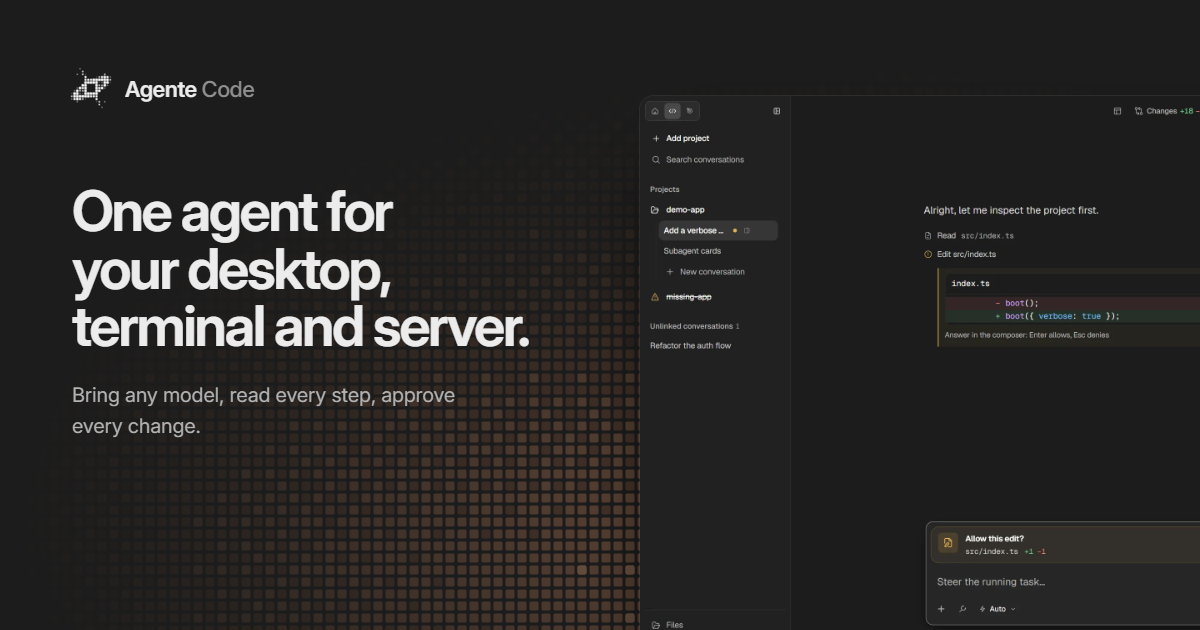
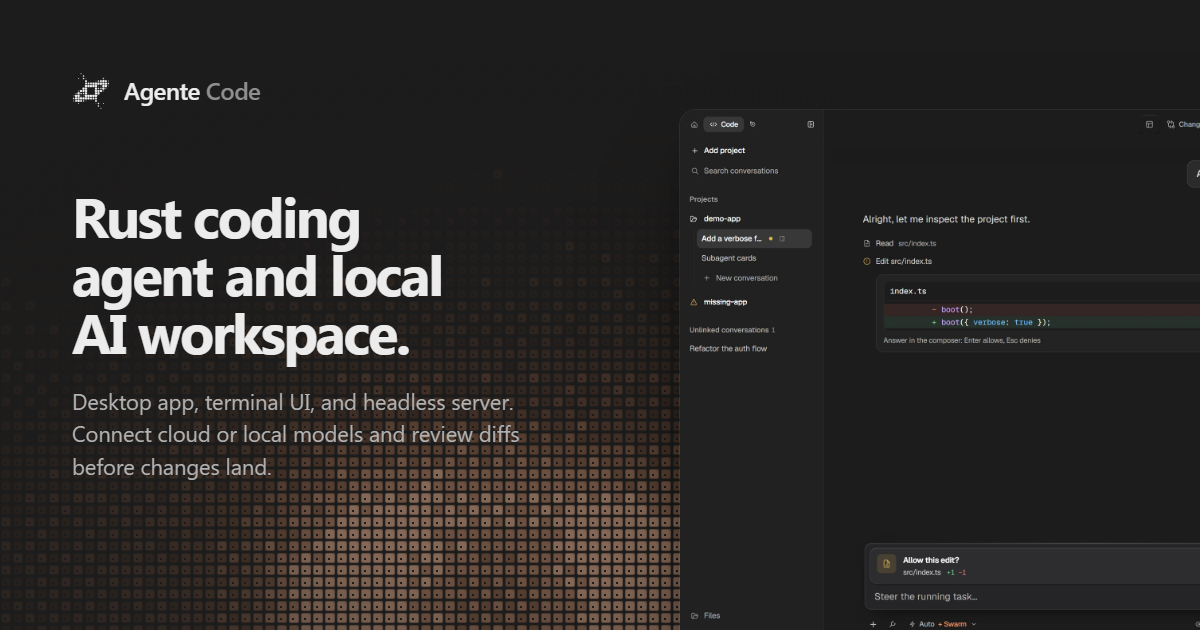
Publish simplified copy and refreshed v0.3.0 screenshots to GitHub Pages

diff --git a/index.html b/index.html
@@ -3,12 +3,12 @@
 <head>
   <meta charset="utf-8" />
   <meta name="viewport" content="width=device-width, initial-scale=1" />
-  <title>Agente Code — one agent core for your desktop, terminal and server</title>
-  <meta name="description" content="Agente Code is an open-source Rust coding agent: a calm desktop app, a keyboard-first terminal, and a server you host. Bring any model, read every step, approve every change." />
+  <title>Agente Code — Rust coding agent for desktop, terminal, and server</title>
+  <meta name="description" content="Agente Code is an open-source Rust coding agent and local AI workspace that runs as a desktop app, a terminal UI, and a headless server." />
   <meta name="color-scheme" content="dark light" />
   <meta name="theme-color" content="#1c1c1c" />
   <meta property="og:title" content="Agente Code" />
-  <meta property="og:description" content="One agent core for your desktop, your terminal and your server. Bring any model, read every step, approve every change." />
+  <meta property="og:description" content="Rust coding agent and local AI workspace for desktop, terminal, and server." />
   <meta property="og:image" content="assets/og.png" />
   <meta name="twitter:card" content="summary_large_image" />
   <link rel="icon" href="assets/favicon.ico" />
@@ -64,13 +64,13 @@
   </header>
 
   <main id="main">
-    <!-- 1 · Hero: the tile field the terminal greets you with, behind one sentence and the product. -->
+    <!-- 1 · Hero -->
     <section class="hero" id="top">
       <canvas class="hero-tiles" id="hero-tiles" aria-hidden="true"></canvas>
       <div class="wrap hero-grid">
         <div class="hero-copy">
-          <h1>One agent for your desktop, terminal and server.</h1>
-          <p class="lede">Agente Code plans, edits and builds with you. Bring any model, read every step as it happens, and approve every change before it lands.</p>
+          <h1>Rust coding agent and local AI workspace.</h1>
+          <p class="lede">Agente Code runs as a desktop application, a terminal UI, and a headless server. Connect cloud or local models, inspect tool calls in real time, and review diffs before changes are written.</p>
           <div class="actions">
             <a class="btn btn-solid btn-lg" href="#install"><svg aria-hidden="true"><use href="#i-download" /></svg>Download Desktop</a>
             <a class="btn btn-outline btn-lg" href="#install" data-install="cli"><svg aria-hidden="true"><use href="#i-terminal" /></svg>Install the CLI</a>
@@ -86,9 +86,9 @@
     <section class="section" id="surfaces">
       <div class="wrap">
         <header class="section-head" data-reveal>
-          <p class="kicker">Three surfaces, one core</p>
-          <h2>Work where you already are.</h2>
-          <p>The same Rust agent runs the desktop app, the terminal and the server, so a session, a model or a tool behaves the same in all three.</p>
+          <p class="kicker">Surfaces</p>
+          <h2>Desktop, terminal, and server</h2>
+          <p>All three interfaces use the same Rust agent core, session storage, model settings, and tool execution loop.</p>
         </header>
 
         <div class="seg-wrap" data-reveal>
@@ -105,16 +105,16 @@
             <figure class="window"><img src="assets/desktop-home.webp" width="2160" height="1350" alt="Agente Code Desktop in Home: a board pack request answered with a report, a review deck and an operating model as file cards" loading="lazy" /></figure>
             <div class="panel-copy">
               <h3>Desktop</h3>
-              <p>A calm workspace for the whole task. Ask in Home and get documents, decks and spreadsheets back as files; switch to Code for a project, or Design for pages you can point at.</p>
-              <ul class="ticks"><li>Home, Code and Design spaces</li><li>Artifacts you open, edit and download</li><li>Local models with llama.cpp, CPU or GPU</li><li>Voice in and out · seven languages</li></ul>
+              <p>Use Home for chat, web search, and generating DOCX, PPTX, and XLSX files. Switch to Code for repository work, or Design for visual HTML prototyping.</p>
+              <ul class="ticks"><li>Home, Code, and Design workspaces</li><li>Preview, edit, and download generated file artifacts</li><li>Local GGUF inference with llama.cpp (CPU or GPU)</li><li>Speech-to-text and text-to-speech · seven UI languages</li></ul>
             </div>
           </article>
           <article class="panel" role="tabpanel" id="p-terminal" aria-labelledby="t-terminal">
             <figure class="window window-dark"><img src="assets/terminal-welcome.webp" width="1371" height="896" alt="Agente Code’s terminal welcome card with the app mark, the session menu, and the tile field behind it" loading="lazy" /></figure>
             <div class="panel-copy">
               <h3>Terminal</h3>
-              <p>A keyboard-first agent that stays in your repository. It plans first, asks before it acts, and keeps several sessions running in tabs.</p>
-              <ul class="ticks"><li>Plan → build → auto, one key</li><li>Parallel subagents in their own worktrees</li><li>Revert or fork from any message</li><li>ACP for editors</li></ul>
+              <p>Terminal UI for repository tasks with read-only planning, tool confirmation prompts, inline diffs, and multiple session tabs.</p>
+              <ul class="ticks"><li>Cycle Plan, Build, and Auto modes with Shift+Tab</li><li>Parallel subagents in isolated git worktrees</li><li>Revert or fork sessions from any user message</li><li>Agent Client Protocol (ACP) stdio support for editors</li></ul>
             </div>
           </article>
           <article class="panel" role="tabpanel" id="p-server" aria-labelledby="t-server">
@@ -134,28 +134,28 @@
             </figure>
             <div class="panel-copy">
               <h3>Server <span class="tag">Preview</span></h3>
-              <p>The runtime behind Desktop, headless on a machine you control. Start a task, close the laptop, attach later from anywhere.</p>
-              <ul class="ticks"><li>Persistent sessions</li><li>Shared agent tools</li><li>Token-authenticated</li><li>One Docker image</li></ul>
+              <p>Run the agent runtime as a background daemon on a local machine or server, and attach to active sessions from a terminal or Desktop client.</p>
+              <ul class="ticks"><li>Persistent background sessions</li><li>Shared agent loop and tool execution</li><li>Token-authenticated HTTP and WebSocket API</li><li>Prebuilt Docker container image</li></ul>
             </div>
           </article>
         </div>
       </div>
     </section>
 
-    <!-- 3 · Features: each card draws the thing it describes, in the app's own grammar. -->
+    <!-- 3 · Features -->
     <section class="section section-alt" id="features">
       <div class="wrap">
         <header class="section-head" data-reveal>
-          <p class="kicker">Built for trust</p>
-          <h2>You can see what it does, and say no.</h2>
-          <p>Every surface follows one rule: each fact about a run has one place, and nothing lands on your disk without a yes.</p>
+          <p class="kicker">Features</p>
+          <h2>Tool approvals, diffs, and session controls</h2>
+          <p>Inspect tool execution as it runs, review file modifications before confirming, and manage context usage and session history.</p>
         </header>
 
         <div class="bento">
           <article class="card card-wide" data-reveal>
             <div class="card-copy">
-              <h3>Asks before it acts</h3>
-              <p>Edits and commands wait for you right where your hands are. Enter allows, Esc denies, and destructive calls turn red.</p>
+              <h3>Tool and edit confirmations</h3>
+              <p>File edits and shell commands pause for confirmation above the prompt. Press Enter to allow or Esc to deny; destructive commands are highlighted in red.</p>
             </div>
             <div class="mock mock-ask" aria-hidden="true">
               <div class="ask">
@@ -170,8 +170,8 @@
 
           <article class="card" data-reveal style="--d:60ms">
             <div class="card-copy">
-              <h3>Live work you can read</h3>
-              <p>Every call is a row you can open. The one running now is the only bright line.</p>
+              <h3>Streaming tool log</h3>
+              <p>Each tool call renders as an expandable row showing target paths, elapsed duration, and live process output.</p>
             </div>
             <div class="mock mock-rows" aria-hidden="true">
               <div class="row"><span class="ic">▤</span><span class="verb">Read</span><code>src/index.ts</code><span class="time">&lt;1s</span></div>
@@ -183,8 +183,8 @@
 
           <article class="card" data-reveal style="--d:120ms">
             <div class="card-copy">
-              <h3>Files, not walls of text</h3>
-              <p>Reports, decks and spreadsheets arrive as files you open, edit and download.</p>
+              <h3>Document artifacts</h3>
+              <p>Generate DOCX documents, PPTX presentations, XLSX spreadsheets, and HTML pages that can be previewed, edited, and downloaded.</p>
             </div>
             <div class="mock mock-files" aria-hidden="true">
               <div class="file"><span class="sheet doc">▤</span><span><b>Q3 Board Report</b><small>Document · DOCX</small></span></div>
@@ -195,8 +195,8 @@
 
           <article class="card" data-reveal>
             <div class="card-copy">
-              <h3>Subagents in parallel</h3>
-              <p>Hand off exploration and fixes to children that run side by side, each in its own worktree, each with a Stop.</p>
+              <h3>Parallel subagents</h3>
+              <p>Spawn task subagents for codebase search, planning, or edits. Writing subagents run in separate git worktrees and can be stopped individually.</p>
             </div>
             <div class="mock mock-agents" aria-hidden="true">
               <div class="agent"><span class="st run"></span><b>Explore</b><span>Find every retry call site</span><em>12.0s</em></div>
@@ -207,8 +207,8 @@
 
           <article class="card" data-reveal style="--d:60ms">
             <div class="card-copy">
-              <h3>Undo is one message away</h3>
-              <p>Revert the edits made after any prompt, or fork a new session from it. Redo works too.</p>
+              <h3>Revert and fork</h3>
+              <p>Revert file changes made after any prompt, redo reverted edits, or fork a conversation into a new session from an earlier message.</p>
             </div>
             <div class="mock mock-msg" aria-hidden="true">
               <div class="bubble">Add a retry guard to the provider client</div>
@@ -218,8 +218,8 @@
 
           <article class="card card-full" data-reveal>
             <div class="card-copy">
-              <h3>Honest spend</h3>
-              <p>Cost per call, cache rate and context left, with estimates labelled as estimates.</p>
+              <h3>Context and cost tracking</h3>
+              <p>Status bar shows active mode, request cost, prompt cache hit rate, and token usage against the context window budget.</p>
             </div>
             <div class="mock mock-spend" aria-hidden="true">
               <div class="status"><span class="mode">build</span><span>$0.042 · 82% cached</span><span class="ctx"><i style="width:38%"></i></span><span>48k / 128k</span></div>
@@ -229,25 +229,25 @@
       </div>
     </section>
 
-    <!-- 4 · Models + principles -->
+    <!-- 4 · Models + configuration -->
     <section class="section" id="models">
       <div class="wrap">
         <header class="section-head" data-reveal>
-          <p class="kicker">Your models, your machine</p>
-          <h2>Bring a key, or bring nothing at all.</h2>
+          <p class="kicker">Models and storage</p>
+          <h2>Cloud APIs and local inference</h2>
         </header>
         <div class="principles">
           <div data-reveal>
-            <h3>Any model</h3>
-            <p>Use your own keys with the providers below, or run GGUF models locally with llama.cpp, Ollama or LM Studio. Thinking levels follow what each model supports.</p>
+            <h3>Model providers</h3>
+            <p>Connect cloud providers with your own API keys, or run GGUF models locally via llama.cpp, Ollama, or LM Studio. Reasoning effort levels adapt to each model's capabilities.</p>
           </div>
           <div data-reveal style="--d:80ms">
-            <h3>Your control</h3>
-            <p>Start with a read-only plan, approve each tool as you build, or go auto for a turn. Review every diff before and after it lands.</p>
+            <h3>Execution modes</h3>
+            <p>Switch between read-only Plan mode, per-action approvals in Build mode, or Auto mode for a turn. Inspect diffs in the transcript and Changes panel.</p>
           </div>
           <div data-reveal style="--d:160ms">
-            <h3>Your disk</h3>
-            <p>Sessions, attachments and project files stay on your machine. Keep them running on your own server with <code>agente serve</code>.</p>
+            <h3>Local storage</h3>
+            <p>Session transcripts, attachments, and configuration files are stored on disk under <code>~/.agente</code>, or on your own host when running <code>agente serve</code>.</p>
           </div>
         </div>
         <div class="providers" data-reveal>
@@ -268,7 +268,7 @@
       <div class="wrap narrow">
         <header class="section-head center" data-reveal>
           <p class="kicker">Install</p>
-          <h2>Running in a minute.</h2>
+          <h2>Downloads and packages</h2>
         </header>
         <div class="seg-wrap" data-reveal>
           <div class="segmented" role="tablist" aria-label="Install" id="install-tabs">
@@ -282,10 +282,10 @@
           <div class="panel is-active" role="tabpanel" id="gp-desktop" aria-labelledby="g-desktop">
             <div class="dl-list">
               <a class="dl-row" href="https://github.com/fabricio3g/AgenteCode/releases/latest/download/AgenteDesktop-windows-x64.exe"><span class="dl-name">Windows</span><span class="dl-meta">x64 installer · AgenteDesktop-windows-x64.exe</span><span class="dl-go">Download<svg aria-hidden="true"><use href="#i-download" /></svg></span></a>
-              <a class="dl-row" href="https://github.com/fabricio3g/AgenteCode/releases/latest/download/AgenteDesktop-linux-x64.AppImage"><span class="dl-name">Linux</span><span class="dl-meta">AppImage · runs on most distributions</span><span class="dl-go">Download<svg aria-hidden="true"><use href="#i-download" /></svg></span></a>
+              <a class="dl-row" href="https://github.com/fabricio3g/AgenteCode/releases/latest/download/AgenteDesktop-linux-x64.AppImage"><span class="dl-name">Linux</span><span class="dl-meta">AppImage · x64 portable binary</span><span class="dl-go">Download<svg aria-hidden="true"><use href="#i-download" /></svg></span></a>
               <a class="dl-row" href="https://github.com/fabricio3g/AgenteCode/releases/latest/download/AgenteDesktop-linux-amd64.deb"><span class="dl-name">Debian / Ubuntu</span><span class="dl-meta">amd64 · .deb package</span><span class="dl-go">Download<svg aria-hidden="true"><use href="#i-download" /></svg></span></a>
             </div>
-            <p class="note">Verify with <a href="https://github.com/fabricio3g/AgenteCode/releases/latest/download/AgenteDesktop-SHA256SUMS">AgenteDesktop-SHA256SUMS</a>. On macOS, build from source with the <a href="https://github.com/fabricio3g/AgenteCode/blob/main/apps/desktop/README.md">Desktop guide</a>.</p>
+            <p class="note">Verify checksums with <a href="https://github.com/fabricio3g/AgenteCode/releases/latest/download/AgenteDesktop-SHA256SUMS">AgenteDesktop-SHA256SUMS</a>. On macOS, build from source using the <a href="https://github.com/fabricio3g/AgenteCode/blob/main/apps/desktop/README.md">Desktop guide</a>.</p>
           </div>
           <div class="panel" role="tabpanel" id="gp-cli" aria-labelledby="g-cli">
             <div class="block">
@@ -302,7 +302,7 @@ agente</code></pre>
               <a href="https://github.com/fabricio3g/AgenteCode/releases/latest/download/AgenteCode-linux-amd64.deb">Debian amd64</a> ·
               <a href="https://github.com/fabricio3g/AgenteCode/releases/latest/download/AgenteCode-linux-arm64.deb">Debian arm64</a> ·
               <a href="https://github.com/fabricio3g/AgenteCode/releases/latest/download/AgenteCode-SHA256SUMS">SHA256SUMS</a>.
-              Then run <code>/provider</code> and <code>/model</code>.</p>
+              Configure a provider and model on first launch with <code>/provider</code> and <code>/model</code>.</p>
           </div>
           <div class="panel" role="tabpanel" id="gp-server" aria-labelledby="g-server">
             <div class="block">
@@ -315,7 +315,7 @@ docker run -d --name agente \
   ghcr.io/fabricio3g/agente-server:latest</code></pre>
               <button class="copy" type="button" data-copy-from="cmd-server"><span class="copy-label">Copy</span></button>
             </div>
-            <p class="note">Preview image. Keep the token: clients need it. See the <a href="https://github.com/fabricio3g/AgenteCode/blob/main/docs/SERVER.md">Server guide</a>.</p>
+            <p class="note">Preview image. Save <code>AGENTE_TOKEN</code> to authenticate clients. See the <a href="https://github.com/fabricio3g/AgenteCode/blob/main/docs/SERVER.md">Server guide</a>.</p>
           </div>
         </div>
       </div>
@@ -325,10 +325,10 @@ docker run -d --name agente \
     <section class="cta" data-reveal>
       <div class="wrap cta-inner">
         <svg class="cta-mark" aria-hidden="true"><use href="#mark" /></svg>
-        <h2>Give it a task, keep the last word.</h2>
+        <h2>Install Agente Code or build from source.</h2>
         <div class="actions">
-          <a class="btn btn-solid btn-lg" href="#install">Get Agente Code<svg aria-hidden="true"><use href="#i-arrow" /></svg></a>
-          <a class="btn btn-outline btn-lg" href="https://github.com/fabricio3g/AgenteCode"><svg aria-hidden="true"><use href="#i-github" /></svg>Star on GitHub</a>
+          <a class="btn btn-solid btn-lg" href="#install">Download<svg aria-hidden="true"><use href="#i-arrow" /></svg></a>
+          <a class="btn btn-outline btn-lg" href="https://github.com/fabricio3g/AgenteCode"><svg aria-hidden="true"><use href="#i-github" /></svg>View on GitHub</a>
         </div>
       </div>
     </section>
